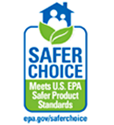
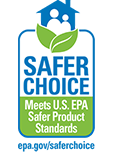
홈앤리빙 06 세탁 카테고리 업로드

diff --git a/_ui/responsive/theme-blue/css/akl-product02.css b/_ui/responsive/theme-blue/css/akl-product02.css
@@ -507,11 +507,13 @@ p, div, li span{word-break: keep-all;word-wrap: break-word;}
 .dish-thum-lst{display: table;width: 100%;margin-bottom:50px;padding-bottom:50px;border-bottom:1px solid #e3e3e3;}
 .dish-thum-lst:before{width: 114px;display: table-cell;content:"";}
 .dish-thum-lst:last-child{margin-bottom:0;padding-bottom:0;border-bottom:none;}
-.dish-thum-lst.thum-bio:before{height: 114px;background:url(../images/akl_product/home-living/thum_mark_bioquest.png) no-repeat 0 50%;}					
-.dish-thum-lst.thum-safer:before{height: 142px;background:url(../images/akl_product/home-living/thum_mark_safer_choice.png) no-repeat 0 50%;}
+.dish-thum-lst.thum-bio:before{height: 114px;background:url(../images/akl_product/home-living/thum_mark_bioquest.png) no-repeat 50% 50%;}					
+.dish-thum-lst.thum-safer:before{height: 152px;background:url(../images/akl_product/home-living/thum_mark_safer_choice.png) no-repeat 50% 50%;}
 
 .dish-thum-lst .dish-thum-wrap{display:inline-block;margin-left: 73px;}
-.dish-thum-lst .dish-thum-wrap strong.h6{background:#00892d;color:#ffffff;font-size:18px;font-weight:400;padding: 10px 15px;border-radius: 40px;box-sizing: border-box;display: inline-block;margin-bottom: 20px;}
+.dish-thum-lst .dish-thum-wrap strong.h6{color:#ffffff;font-size:18px;font-weight:400;padding: 10px 15px;border-radius: 40px;box-sizing: border-box;display: inline-block;margin-bottom: 20px;}
+.dish-thum-lst .dish-thum-wrap strong.h6.round-green{background:#00892d;}
+.dish-thum-lst .dish-thum-wrap strong.h6.round-blue{background:#008fc5;}
 .dish-thum-lst .dish-thum-wrap .ad-step-lst{margin-bottom:10px;}
 .dish-thum-lst .dish-thum-wrap .ad-step-lst:before{}
 .dish-thum-lst .dish-thum-wrap .ad-step-lst li{margin-top: 0;line-height: 1.5;font-size: 16px;color: #808285;}

diff --git a/_ui/responsive/html/product/G10300_type_home_living.html b/_ui/responsive/html/product/G10300_type_home_living.html
@@ -425,7 +425,7 @@
 											<div class="border-bx">																						
 												<div class="dish-thum-lst thum-bio">
 													<div class="dish-thum-wrap">
-														<strong class="h6">바이오퀘스트 포뮬러</strong>
+														<strong class="h6 round-green">바이오퀘스트 포뮬러</strong><!-- 라운드가 그린 일경우  -->
 														<ul class="ad-step-lst">
 															<li><strong>생분해성 :</strong> 생분해성이며 민감한 피부를 자극할 수 있는 잔여물을 남기지 않습니다. </li>
 															<li><strong>고농축 :</strong> 경제적이며, 적은 양을 사용해도 충분합니다.</li>
@@ -436,9 +436,9 @@
 														</ul>													
 													</div>																									
 												</div>
-												<div class="dish-thum-lst thum-safer">
+												<div class="dish-thum-lst thum-safer"> <!-- 라운드 타이틀이 블루일 경우 class="type-blue" -->
 													<div class="dish-thum-wrap">
-														<strong class="h6">Safer Choice 인증마크</strong>
+														<strong class="h6 round-blue">Safer Choice 인증마크</strong><!-- 라운드가 블루 일경우  -->
 														<ul class="norm-lst">
 															<li>미국 환경 보호국(U.S. EPA)의 전문적인 기준을 충족시키는 제품에만 부여하는 인증을 획득하였습니다. 
 																<br>Safer Choice 마크가 부착된 제품은 일반 제품 대비 까다롭게 선정한 성분을 사용하면서도 성능이 좋은 제품을 의미합니다.

diff --git a/_ui/responsive/html/product/home-living/detergent-cleanser/HL_1251_10_SA8_Bioquest_Premium_laundry_detergent.html b/_ui/responsive/html/product/home-living/detergent-cleanser/HL_1251_10_SA8_Bioquest_Premium_laundry_detergent.html
@@ -114,7 +114,7 @@
 											<div class="border-bx">																						
 												<div class="dish-thum-lst thum-bio">
 													<div class="dish-thum-wrap">
-														<strong class="h6 round-green">바이오퀘스트 포뮬러</strong><!-- 라운드가 그린 일경우  -->
+														<strong class="h6">바이오퀘스트 포뮬러</strong>
 														<ul class="ad-step-lst">
 															<li><strong>생분해성 :</strong> 생분해성이며 민감한 피부를 자극할 수 있는 잔여물을 남기지 않습니다. </li>
 															<li><strong>고농축 :</strong> 경제적이며, 적은 양을 사용해도 충분합니다.</li>
@@ -127,7 +127,7 @@
 												</div>
 												<div class="dish-thum-lst thum-safer">
 													<div class="dish-thum-wrap">
-														<strong class="h6 round-green">Safer Choice 인증마크</strong><!-- 라운드가 블루 일경우  -->
+														<strong class="h6">Safer Choice 인증마크</strong>
 														<ul class="norm-lst">
 															<li>미국 환경 보호국(U.S. EPA)의 전문적인 기준을 충족시키는 제품에만 부여하는 인증을 획득하였습니다. 
 																<br>Safer Choice 마크가 부착된 제품은 일반 제품 대비 까다롭게 선정한 성분을 사용하면서도 성능이 좋은 제품을 의미합니다.
